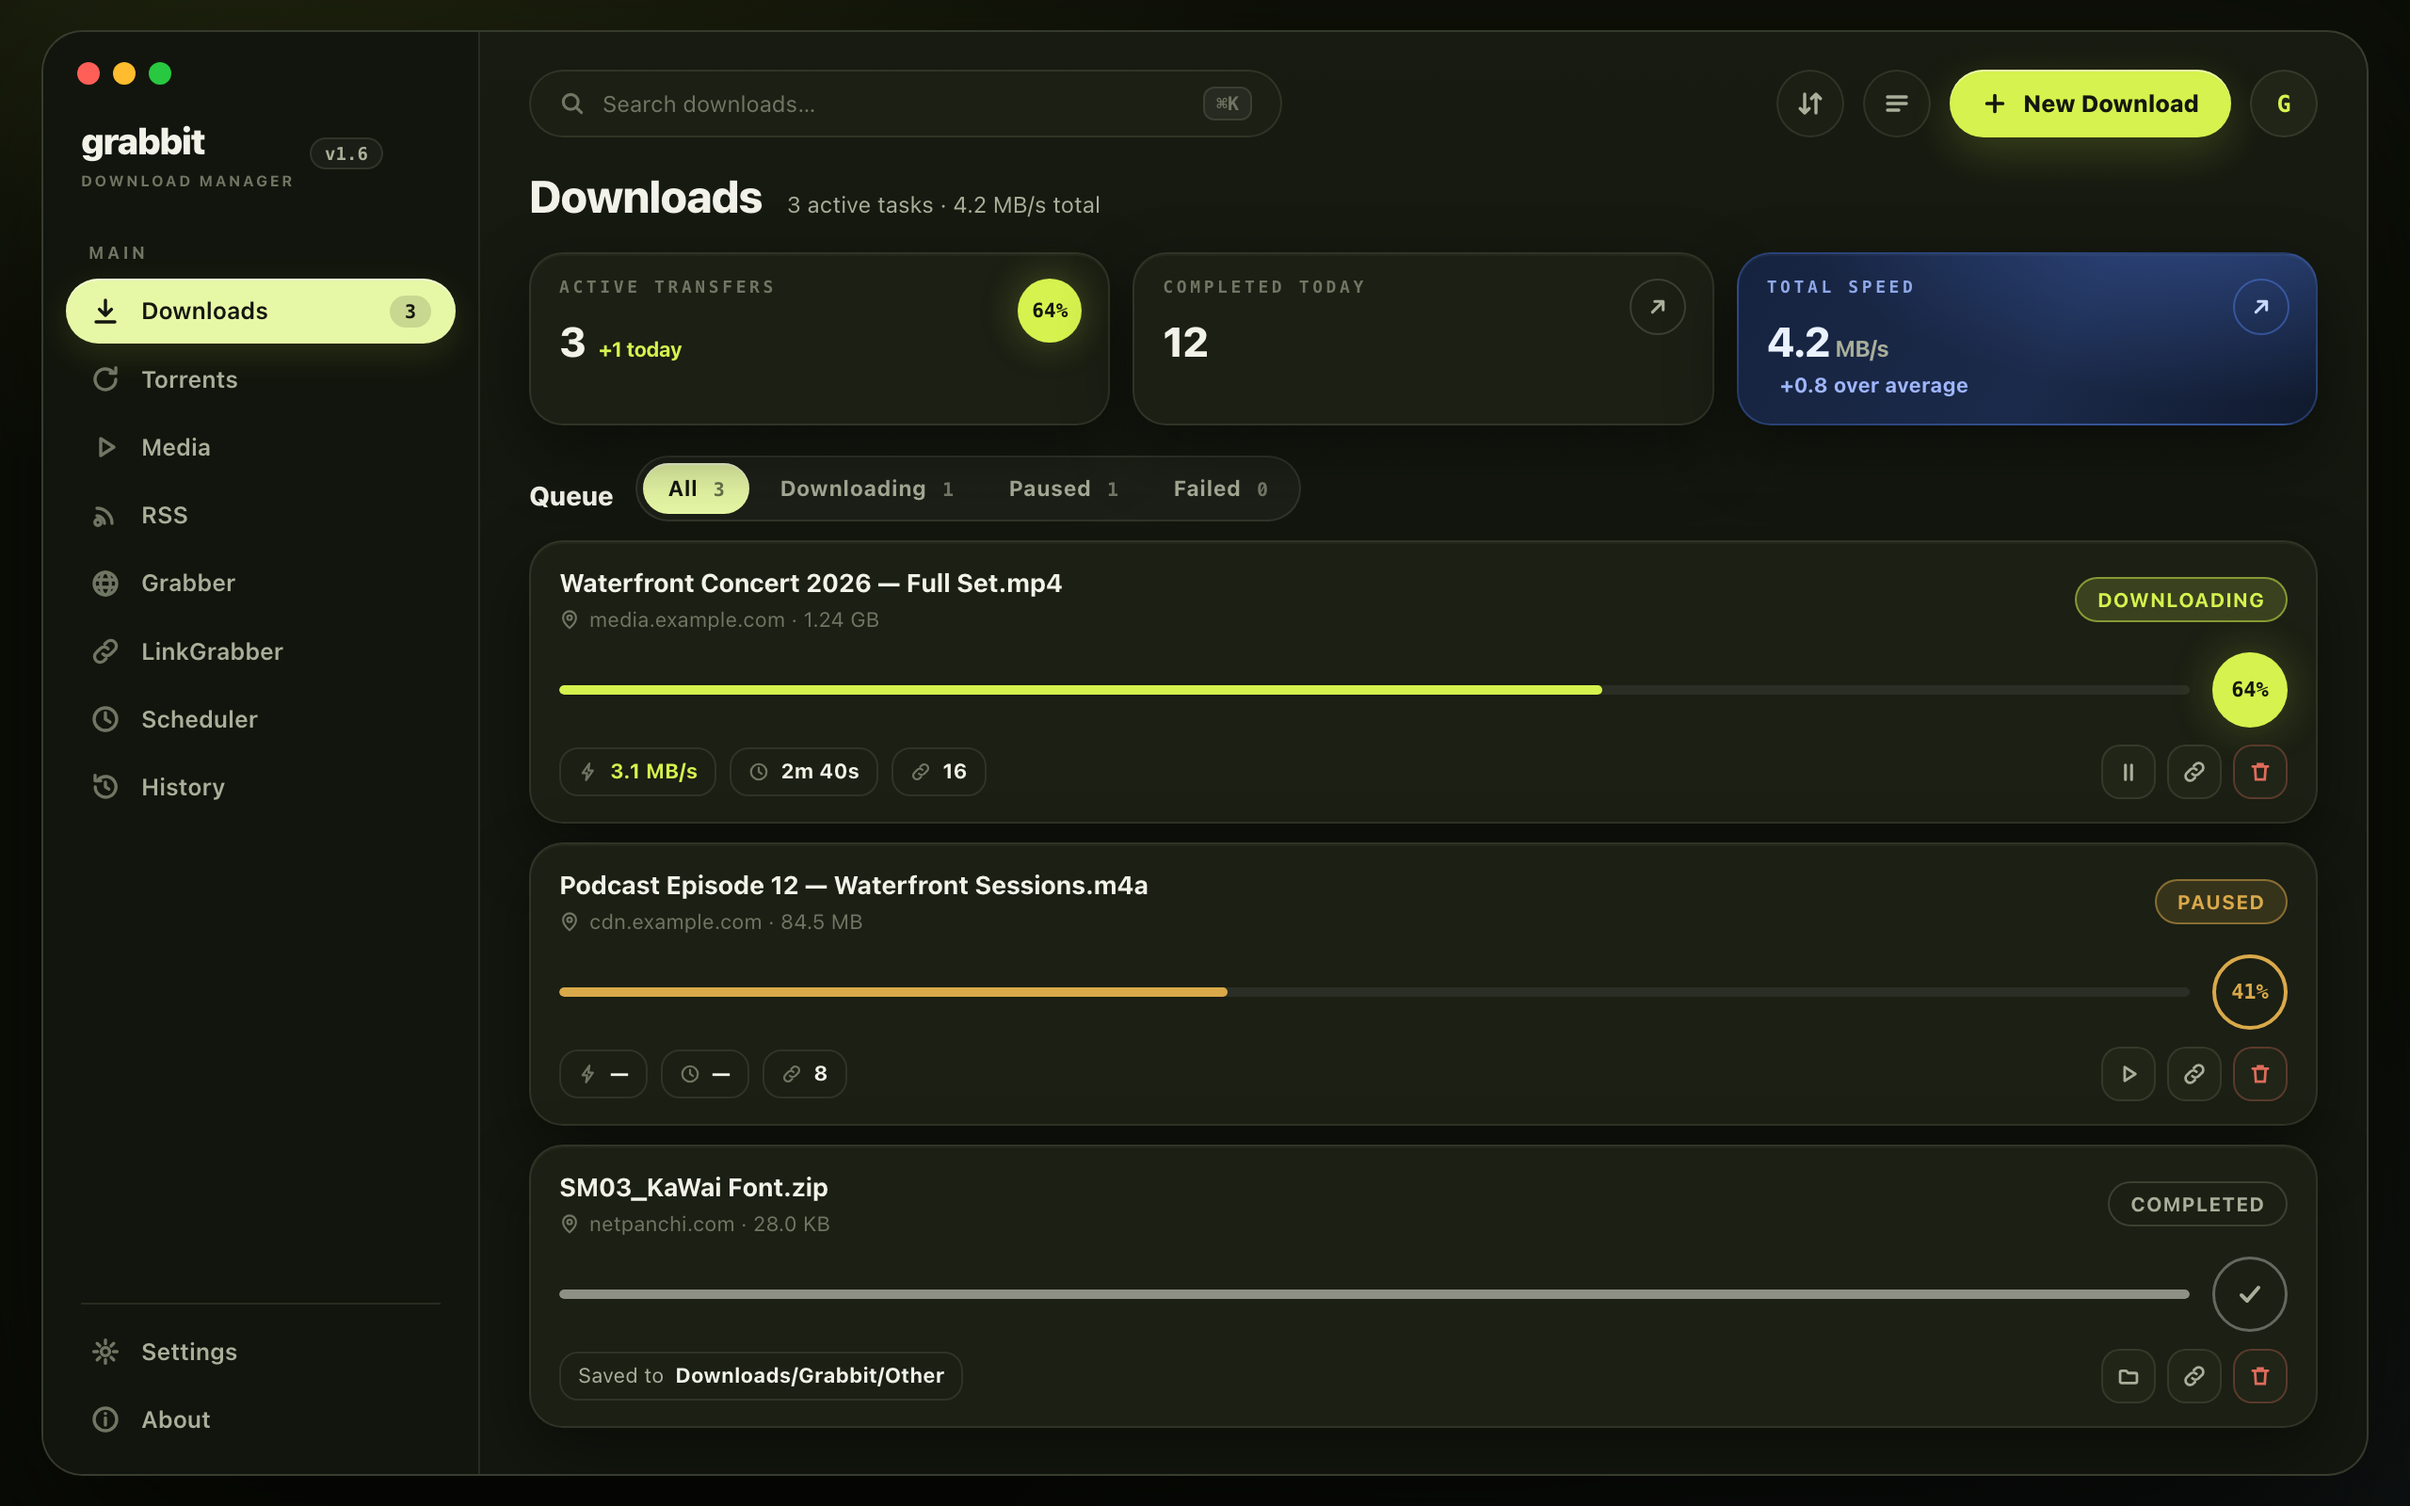
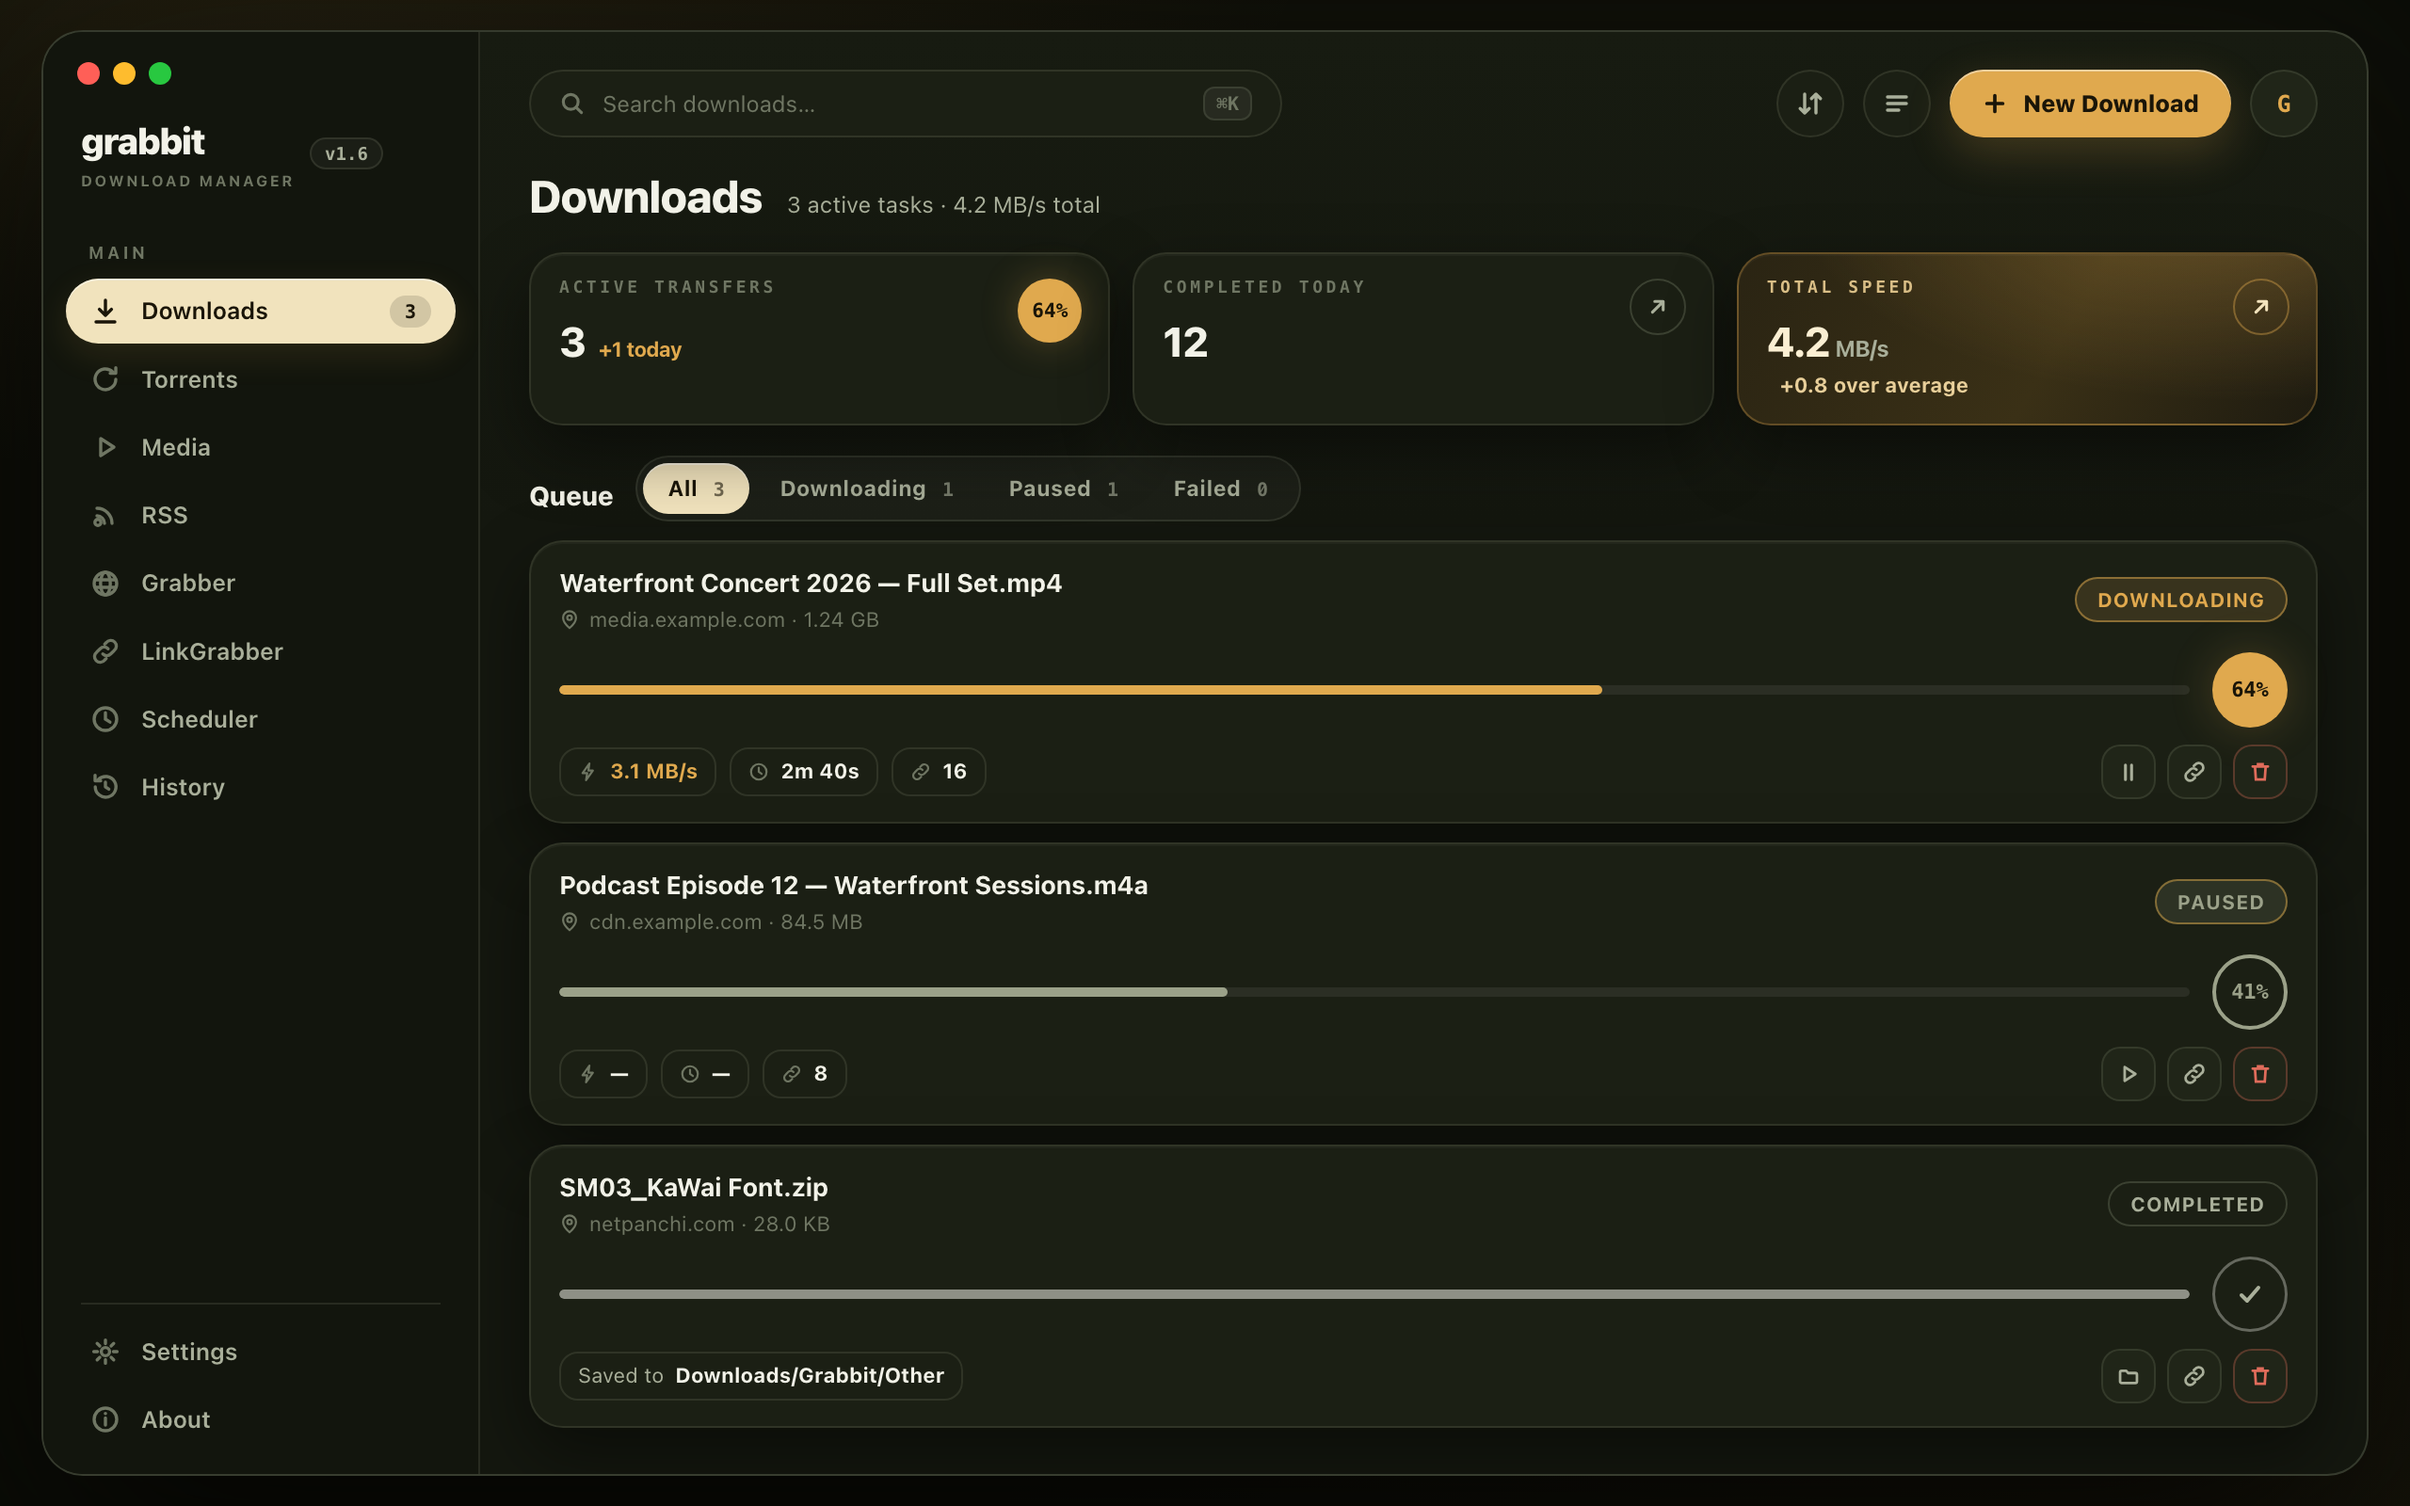
docs: re-tint Grove to a warm gold harvest palette (distinct from Pulse)
Grove and Pulse read too similarly (both fluorescent yellow-green). The
chartreuse hero is gone: Grove now uses warm gold #E0A94E with a pale
cream-gold pill, sage for paused, and an olive-gold gradient speed card
instead of blue — a warm, earthy identity against Pulse's cool neon.

diff --git a/docs/theme-previews/grove.html b/docs/theme-previews/grove.html
@@ -19,17 +19,16 @@
     --text: #F2F2E8;
     --text-2: #A9AF9A;
     --text-3: #6F7663;
-    --lime: #D6F24E;
-    --lime-soft: #E6F8A6;
-    --lime-ink: #14170F;
-    --lime-dim: rgba(214, 242, 78, .16);
-    --amber: #D9A94A;
-    --amber-dim: rgba(217, 169, 74, .14);
-    --blue: #5B8CFF;
+    --lime: #E0A94E;
+    --lime-soft: #F1E3BD;
+    --lime-ink: #1A1508;
+    --lime-dim: rgba(224, 169, 78, .15);
+    --amber: #9BA189;
+    --amber-dim: rgba(155, 161, 137, .14);
     --red: #E06C5B;
     --mono: "SF Mono", ui-monospace, Menlo, monospace;
     --shadow-card: 0 1px 0 rgba(255, 255, 255, .03) inset, 0 14px 36px rgba(0, 0, 0, .45);
-    --shadow-window: 0 56px 130px rgba(0, 0, 0, .78), 0 0 110px rgba(214, 242, 78, .05);
+    --shadow-window: 0 56px 130px rgba(0, 0, 0, .78), 0 0 110px rgba(224, 169, 78, .06);
   }
 
   * { box-sizing: border-box; margin: 0; padding: 0; }
@@ -38,8 +37,8 @@
     font: 13px/1.45 -apple-system, BlinkMacSystemFont, "Segoe UI", Inter, sans-serif;
     color: var(--text);
     background:
-      radial-gradient(900px 520px at 10% -10%, rgba(214, 242, 78, .10), transparent 65%),
-      radial-gradient(1100px 560px at 95% 110%, rgba(91, 140, 255, .07), transparent 65%),
+      radial-gradient(900px 520px at 10% -10%, rgba(224, 169, 78, .10), transparent 65%),
+      radial-gradient(1100px 560px at 95% 110%, rgba(150, 110, 50, .10), transparent 65%),
       var(--backdrop);
     display: flex; align-items: center; justify-content: center;
     -webkit-font-smoothing: antialiased;
@@ -99,7 +98,7 @@
   }
   .nav a.active {
     background: var(--lime-soft); color: var(--lime-ink);
-    box-shadow: 0 1px 0 rgba(255, 255, 255, .5) inset, 0 6px 18px rgba(214, 242, 78, .12);
+    box-shadow: 0 1px 0 rgba(255, 255, 255, .45) inset, 0 6px 18px rgba(224, 169, 78, .12);
   }
   .nav a.active svg { color: var(--lime-ink); }
   .nav a.active .count {
@@ -140,7 +139,7 @@
     background: var(--lime); color: var(--lime-ink);
     display: flex; align-items: center; gap: 8px;
     font-weight: 800; font-size: 12.5px; letter-spacing: -.005em;
-    box-shadow: 0 8px 24px rgba(214, 242, 78, .18), 0 1px 0 rgba(255,255,255,.5) inset;
+    box-shadow: 0 8px 24px rgba(224, 169, 78, .22), 0 1px 0 rgba(255,255,255,.45) inset;
   }
   .avatar {
     width: 36px; height: 36px; border-radius: 999px;
@@ -175,18 +174,18 @@
     background: var(--lime); color: var(--lime-ink);
     display: flex; align-items: center; justify-content: center;
     font: 800 10.5px var(--mono);
-    box-shadow: 0 0 20px rgba(214, 242, 78, .25);
+    box-shadow: 0 0 20px rgba(224, 169, 78, .28);
   }
   /* The water-style accent card (blue gradient) */
   .stat.water {
     background:
-      radial-gradient(340px 150px at 88% -30%, rgba(91, 140, 255, .35), transparent 70%),
-      linear-gradient(120deg, #16233F 0%, #1B2A4A 55%, #101A2E 100%);
-    border-color: rgba(91, 140, 255, .28);
+      radial-gradient(340px 150px at 88% -30%, rgba(224, 169, 78, .30), transparent 70%),
+      linear-gradient(120deg, #2A2413 0%, #3A3016 55%, #1E1B10 100%);
+    border-color: rgba(224, 169, 78, .30);
   }
-  .stat.water .value { color: #EAF1FF; }
-  .stat.water .delta { color: #9FB6FF; }
-  .stat.water .arrow { border-color: rgba(91, 140, 255, .4); color: #C9D8FF; }
+  .stat.water .value { color: #FBEFD3; }
+  .stat.water .delta { color: #E8CF9A; }
+  .stat.water .arrow { border-color: rgba(224, 169, 78, .4); color: #F3E3BD; }
 
   /* ---------- Queue pill tabs ---------- */
   .tabs {
@@ -220,7 +219,7 @@
     padding: 3.5px 11px; border-radius: 999px;
     border: 1px solid var(--line-strong); color: var(--text-2);
   }
-  .chip.lime { border-color: rgba(214, 242, 78, .5); color: var(--lime); background: var(--lime-dim); }
+  .chip.lime { border-color: rgba(224, 169, 78, .5); color: var(--lime); background: var(--lime-dim); }
   .chip.amber { border-color: rgba(217, 169, 74, .5); color: var(--amber); background: var(--amber-dim); }
   .chip.plain { border-color: var(--line-strong); color: var(--text-2); }
   .chip.red { border-color: rgba(224, 108, 91, .5); color: var(--red); background: rgba(224, 108, 91, .12); }
@@ -236,7 +235,7 @@
     display: flex; align-items: center; justify-content: center;
     font: 800 11px var(--mono);
   }
-  .gauge.lime { background: var(--lime); color: var(--lime-ink); box-shadow: 0 0 24px rgba(214, 242, 78, .22); }
+  .gauge.lime { background: var(--lime); color: var(--lime-ink); box-shadow: 0 0 24px rgba(224, 169, 78, .22); }
   .gauge.amber { border: 2px solid var(--amber); color: var(--amber); }
   .gauge.done { border: 1.5px solid rgba(242, 242, 232, .35); color: var(--text-2); }
 
@@ -365,7 +364,7 @@
           </div>
         </div>
         <div class="stat water">
-          <div class="label micro" style="color:#8FA8E8">Total speed</div>
+          <div class="label micro" style="color:#D9BE86">Total speed</div>
           <div class="value">4.2<span class="unit">MB/s</span></div>
           <div class="delta">+0.8 over average</div>
           <div class="arrow">

diff --git a/docs/theme-previews/README.md b/docs/theme-previews/README.md
@@ -104,9 +104,10 @@ An earthy "command console" skin inspired by
 [TERA — Farm Management SaaS](https://www.behance.net/gallery/251337883/Farm-Management-SaaS-Platform-UIUX-Design-TERA)
 on Behance. Name: **Grove** — short, green, grounded. Dark-first.
 
-Style language: dark olive/charcoal panels on a deep green-black canvas,
-chartreuse accent, amber secondary, blue "water" accent card, metric
-chips with tiny icons, circular gauges, pill tab navigation (pale lime
+Style language: dark olive panels on a deep green-black canvas, **warm
+gold hero accent** (kept deliberately distinct from Pulse's cool neon
+lime), sage for paused, an olive-gold gradient speed card, metric chips
+with tiny icons, circular gauges, pill tab navigation (pale cream-gold
 active), lowercase chunky logotype.
 
 ### Tokens (as rendered)
@@ -119,15 +120,15 @@ active), lowercase chunky logotype.
 | Card | `#1B1F14` |
 | Border | `rgba(232,242,206,.10)` / strong `.16` |
 | Text / secondary / tertiary | `#F2F2E8` / `#A9AF9A` / `#6F7663` |
-| Accent (chartreuse) | `#D6F24E`, pale pill `#E6F8A6`, ink `#14170F` |
-| Amber (paused) | `#D9A94A` |
-| Blue (water card) | `#5B8CFF` over `linear-gradient(120deg,#16233F,#1B2A4A,#101A2E)` |
+| Accent (warm gold) | `#E0A94E`, pale pill `#F1E3BD`, ink `#1A1508` |
+| Sage (paused) | `#9BA189` |
+| Speed card | gold radial over `linear-gradient(120deg,#2A2413,#3A3016,#1E1B10)` |
 | Danger | `#E06C5B` |
 | Card shadow | `inset 0 1px 0 rgba(255,255,255,.03), 0 14px 36px rgba(0,0,0,.45)` |
 | Window shadow | `0 56px 130px rgba(0,0,0,.78), 0 0 110px rgba(214,242,78,.05)` |
 
 Radii: window 22 · cards 18 · chips 10 · pills 999. Signature elements:
-filled lime gauge circles (dark % text), amber ring gauge for paused,
+filled gold gauge circles (dark % text), sage ring gauge for paused,
 check gauge for completed, and tiny-icon metric chips
 (`⚡ 3.1 MB/s · 🕐 2m 40s · 🔗 16`).
 
